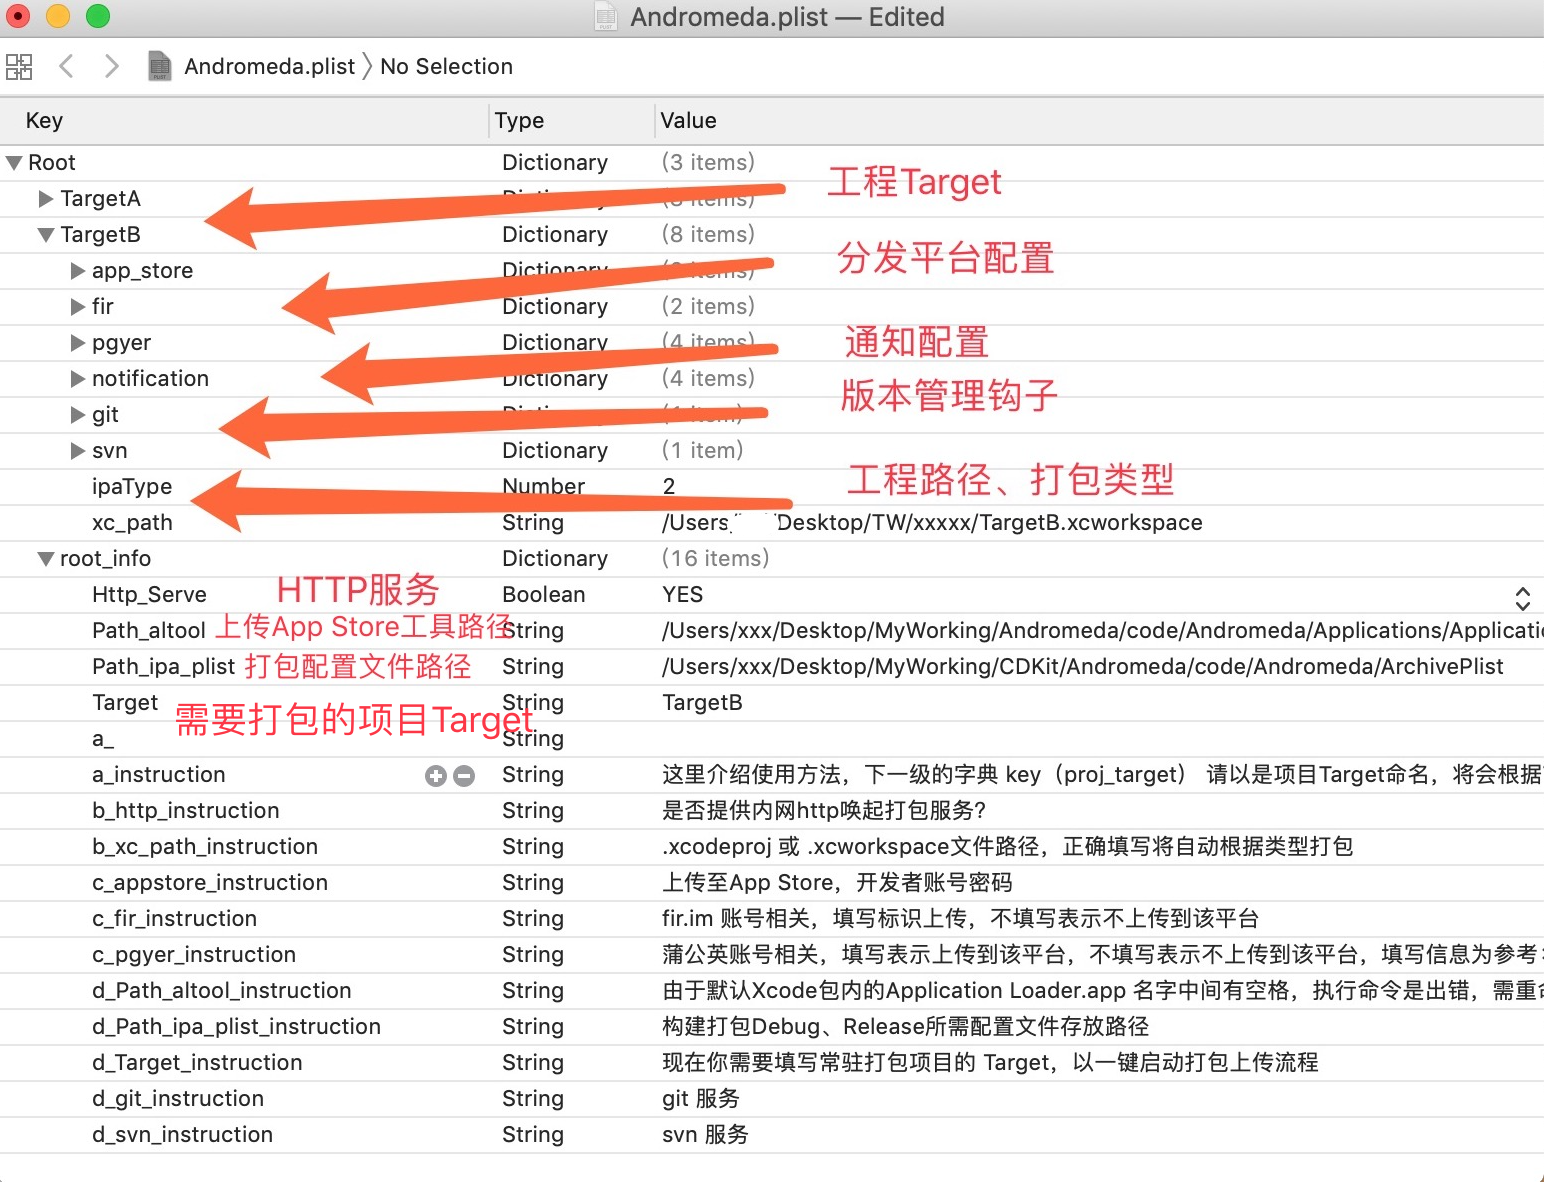
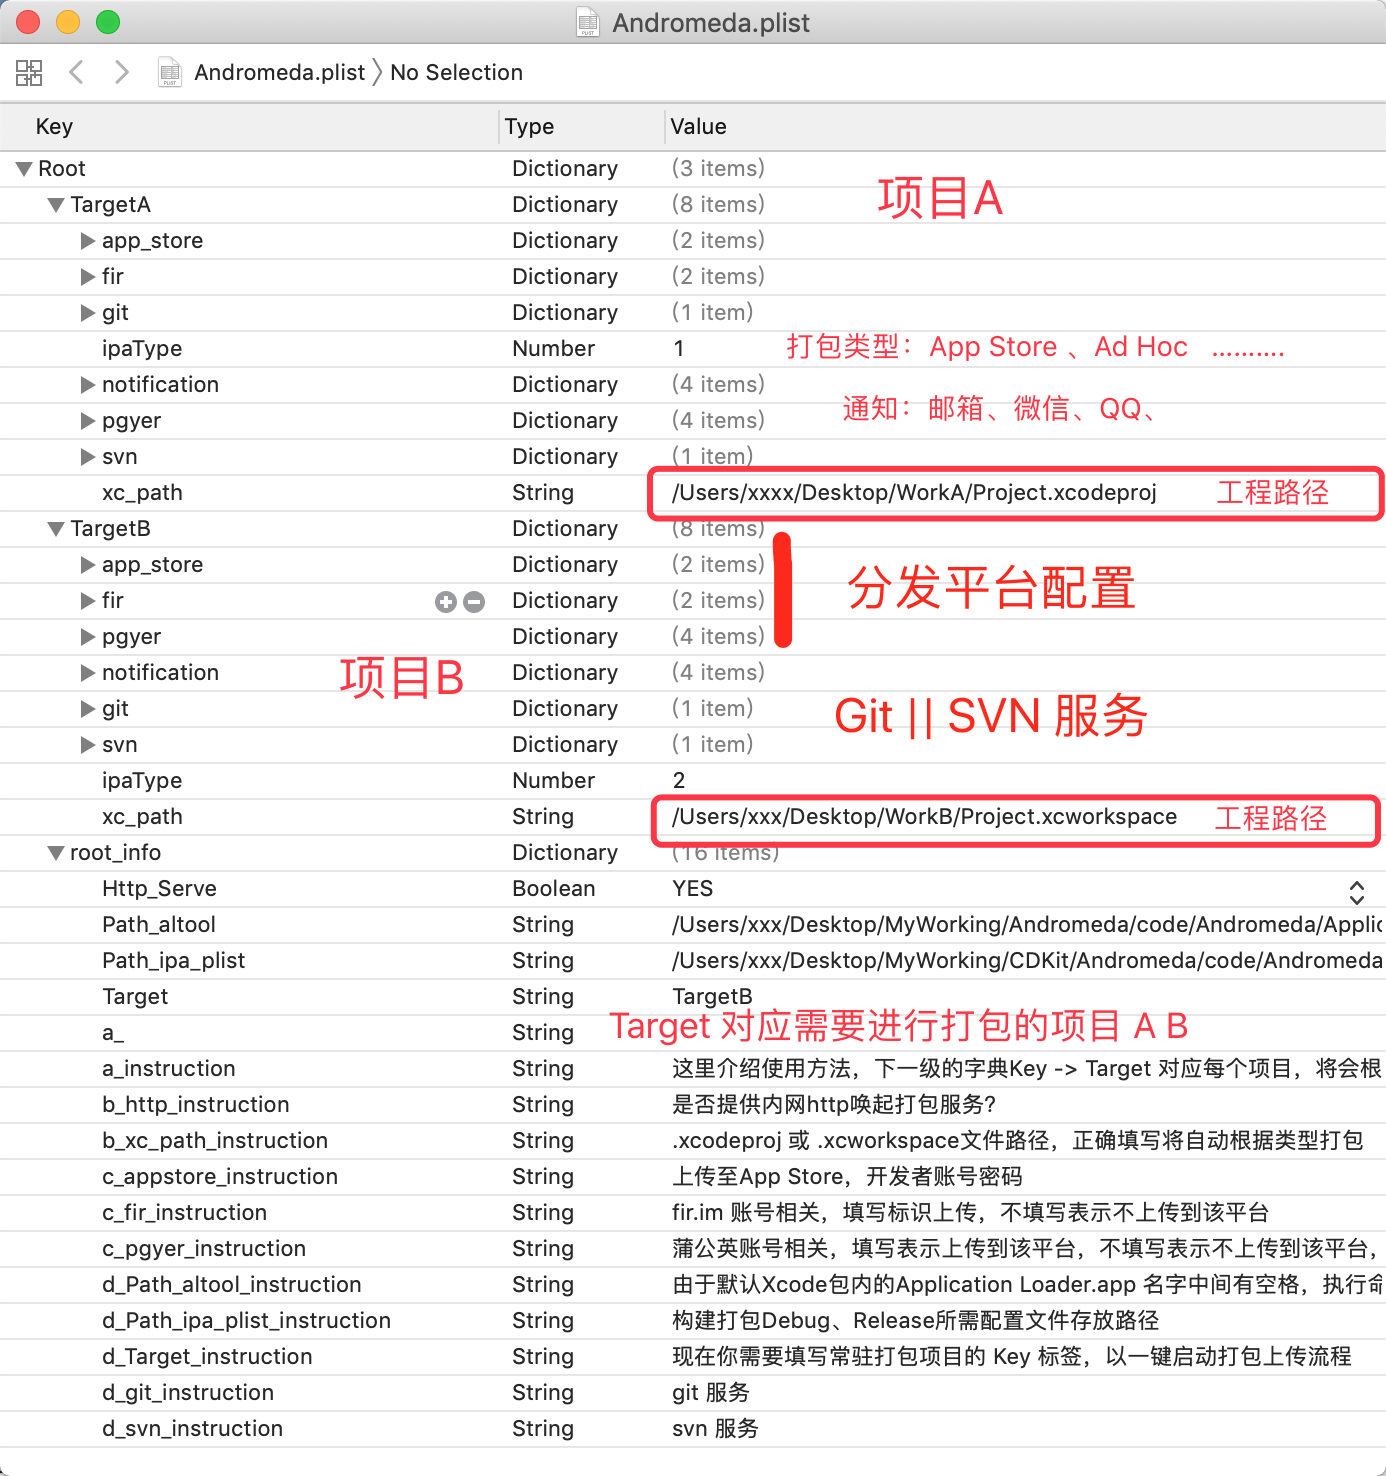
🔧 LCD -  同名工程兼容

Changed region(s): [[0.0, 0.0, 1.0, 0.9746], [0.3723, 0.0, 0.6205, 0.0305]]

diff --git a/code/build_manage.py b/code/build_manage.py
@@ -109,14 +109,20 @@ def build_ipa(pod=''):
     is_workspace = xc_path.endswith('.xcworkspace')
     t = '/'
     list = xc_path.split('/')
+
+    # 取得项目 target
+    project = list[-1]
+    schemes = project.split('.')[-1]
+    # 删除 最后一个元素 获得文件目录
     list.pop()
     main_path = t.join(list)
+
 
     if len(pod) > 0:
         pod_install(main_path, pod)
 
     try:
-        ipa = Archive(main_path, buidPlist_path, build_tag, is_workspace, ipa_type)
+        ipa = Archive(main_path, buidPlist_path, schemes, is_workspace, ipa_type)
     except Exception as e:
         print('---------->', e, '---------->')
     else:
